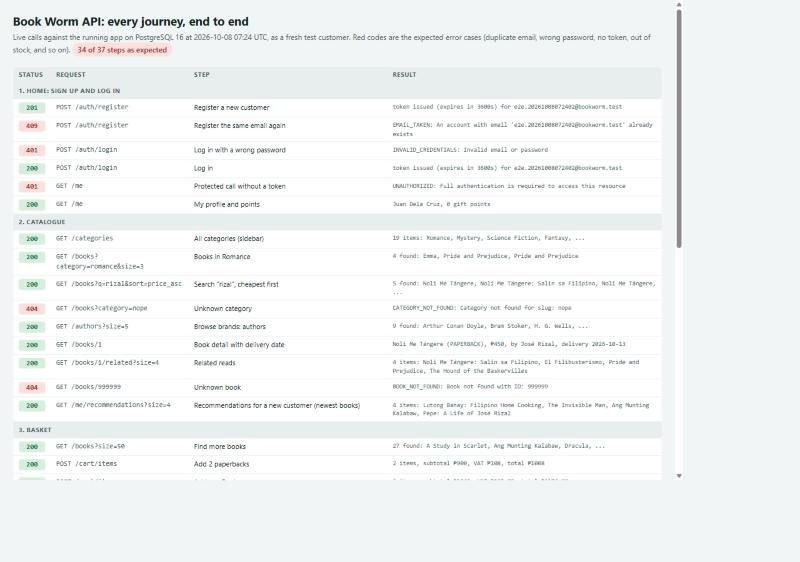
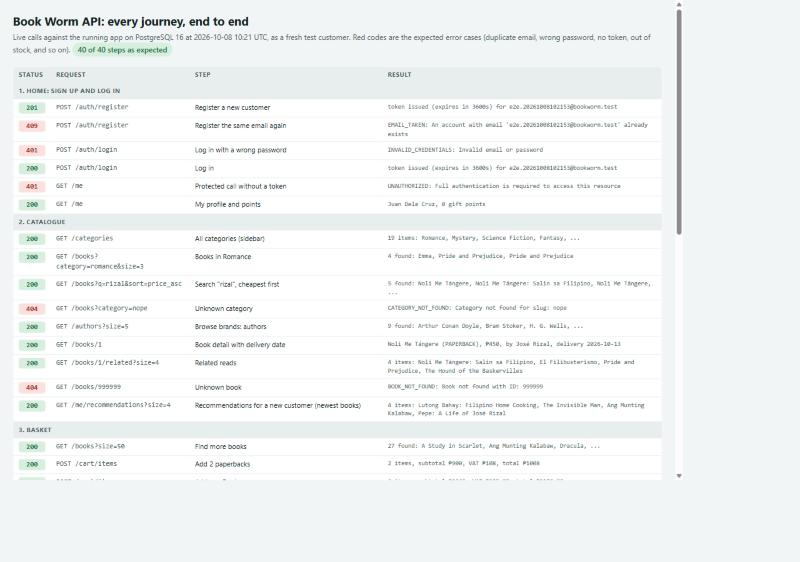
docs: retake screenshots after fixes, 40 of 40 journeys and 146 tests

diff --git a/docs/ai-usage-log.md b/docs/ai-usage-log.md
@@ -674,3 +674,16 @@ Tests:
 **Review / changes by me:** _pending_
 
 ---
+---
+
+## 32. Re-verify after the two Bob fix rounds (Claude Code)
+
+**Date:** 2026-10-08
+
+**Prompt (summary):** After Bob fixed the bugs from the first end to end run (commits `2acae77` and `7725f52`), I asked Claude Code to double check.
+
+**AI output:** `mvn clean install` passed with 146 tests and 0 failures. The live run on PostgreSQL went 40 of 40: the declined card returns 402 and keeps a FAILED row, the same order can then be paid, its detail and the order history load, cancel saves CANCELLED with `cancelled_at` and `refunded_at`, a second cancel returns 409, `copies_sold` rises after payment, and the gift points ledger adds up to the balance. Screenshots 04 to 07 in `docs/screenshots/` were retaken from this run.
+
+**What this shows about the AI workflow:** the first Bob fix passed its own tests but surfaced a new bug (two payment rows made order reads crash). Only the live run against the real database caught it, so running the app end to end after AI generated changes was worth it.
+
+**Review / changes by me:** _pending_
